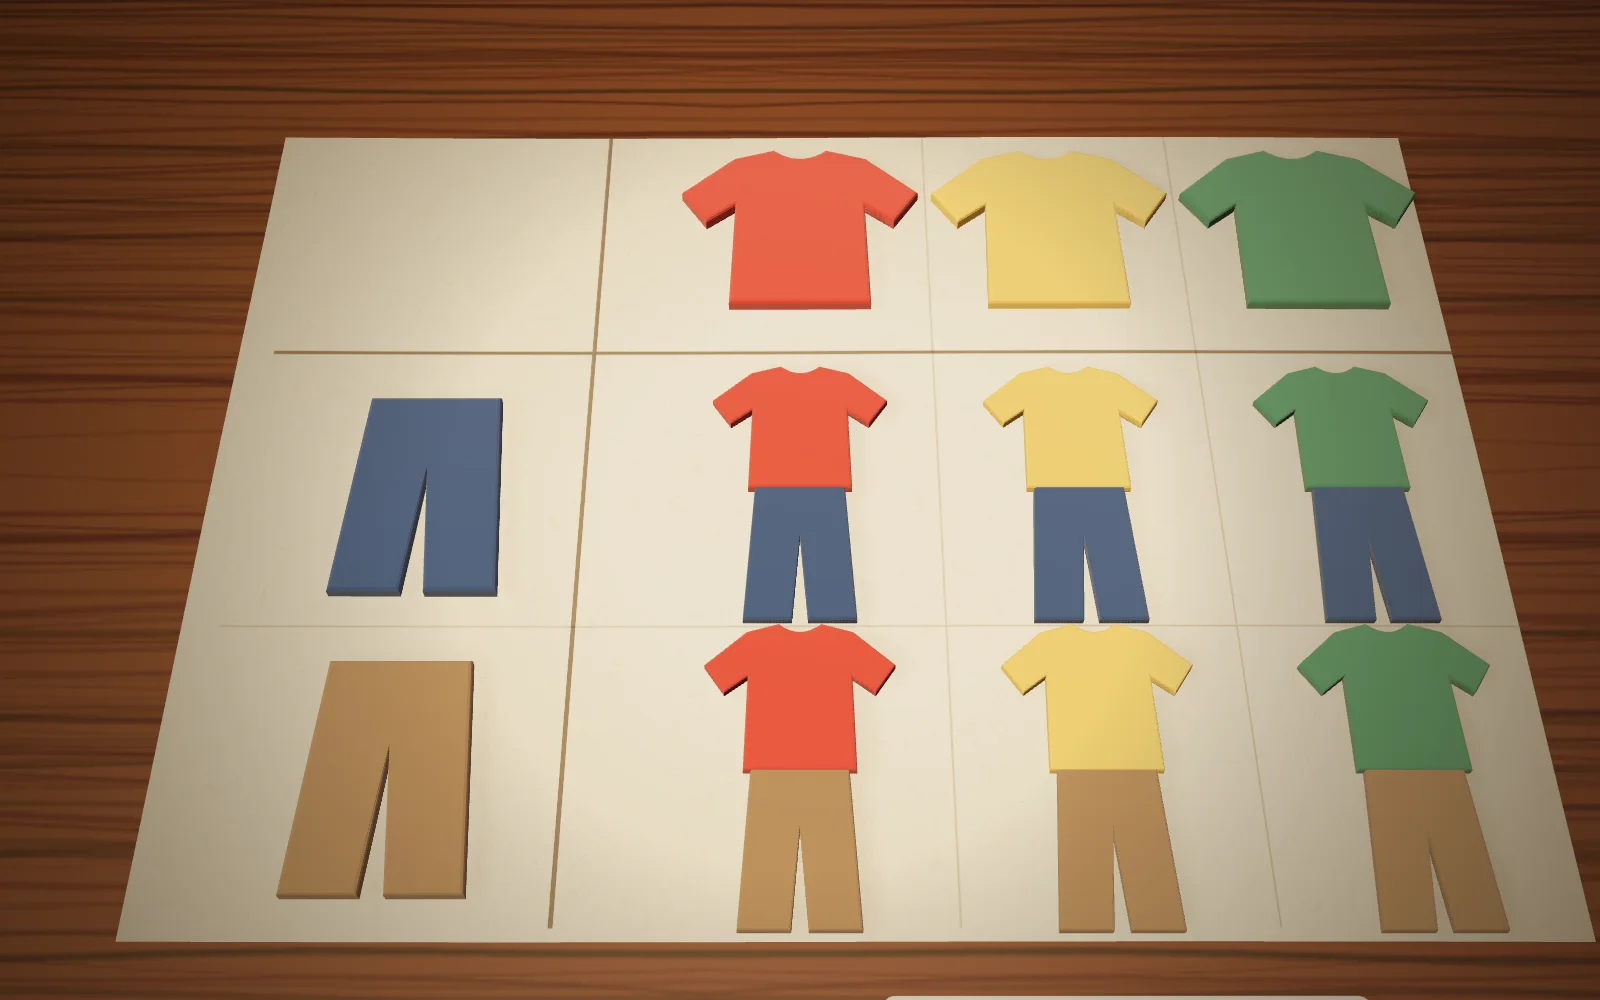
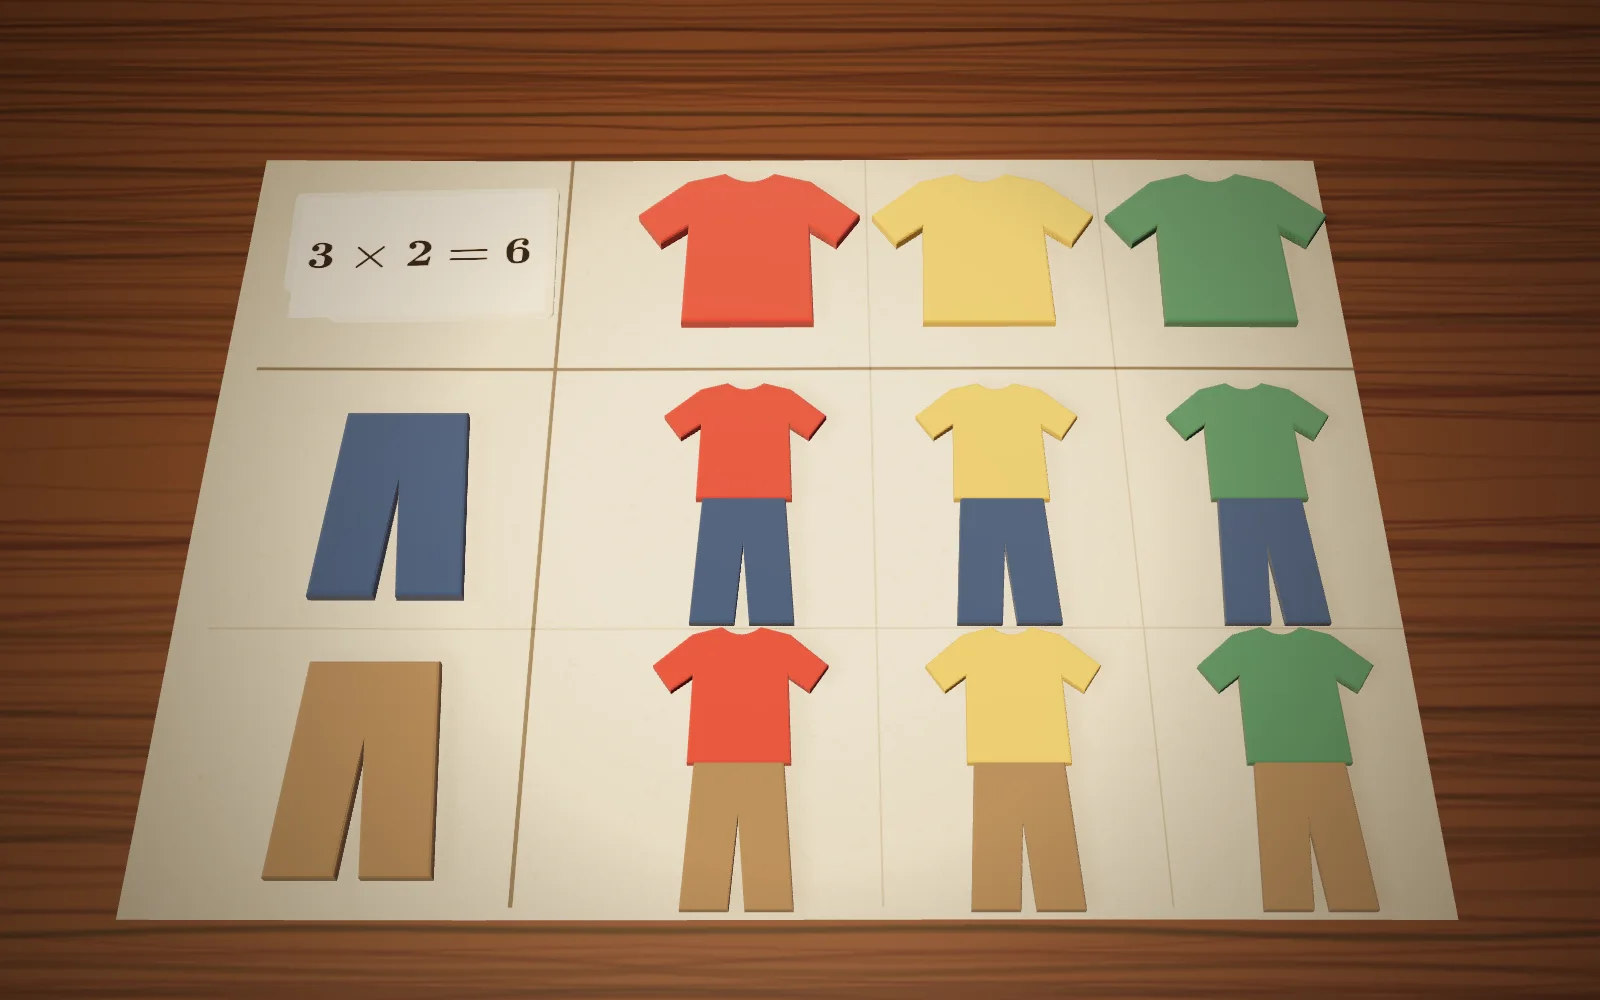
수의 마법 — 중2 C34 3D 장면 6개 등록(M-73·M-74·M-65·M-75·M-76·M-88) — 중2 15개 완료
함수(자판기에 3 → 7, f(3)=7) · 그래프(두 점을 자로 이어 직선, 셋째 점도 그 위) · 기울기(경사 8% = 8÷100) ·
두 직선의 교점(2, 1) · 활용(물통 5L 에 1분 3L → 10분 35L, y=3x+5) · 경우의 수(상의 3 × 하의 2 = 6).
에이전트 작성, 정지 그림 검수 후 alt 3개 언어 등록. check-hero3d 34개 통과.

Claude-Session: https://claude.ai/code/session_01T6HCktzZTCy63PeQAnPr61

diff --git a/number_magic/data/hero3d.js b/number_magic/data/hero3d.js
@@ -33,4 +33,11 @@ window.NM_HERO3D = {
   'M-71': { alt:{ ko:"종이에 0부터 10까지의 수직선과 800x ≤ 7000이 적혀 있고, 0부터 8.75까지 붉은 띠와 8.75의 속이 찬 점이 그려져 있으며 초록 말이 8에 서 있습니다. 뒤에는 1000이 적힌 지폐 7장, 800 카드, 공책 8권 더미와 옆에 놓인 공책 1권이 있습니다.", en:"Paper with a number line from 0 to 10 and 800x ≤ 7000 written on it; a red band runs from 0 to a filled dot at 8.75, and a green pawn stands on 8. Behind are seven notes marked 1000, a card reading 800, a stack of 8 notebooks and one more notebook lying beside it.", zh:"纸上画着0到10的数轴并写着800x ≤ 7000，从0到8.75画有红带，8.75处是实心点，绿色棋子立在8上。后面有7张印着1000的纸币、一张800的卡片、一摞8本笔记本和旁边的一本笔记本。" } },
   'M-63': { alt:{ ko:"종이 위에 윗줄은 사과 2개와 배 1개 = 1100, 아랫줄은 사과 1개와 배 1개 = 800이 놓여 있고, 왼쪽에 빼기 기호, 아래에 가로줄이 있으며 그 밑에 사과 1개 = 300이 놓여 있습니다.", en:"On a sheet of paper, the top row has 2 apples and 1 pear = 1100 and the second row has 1 apple and 1 pear = 800. A minus sign is on the left and a line is drawn underneath, below which lies 1 apple = 300.", zh:"纸上第一行是2个苹果和1个梨 = 1100，第二行是1个苹果和1个梨 = 800，左边有减号，下面画了一条横线，横线下是1个苹果 = 300。" } },
   'M-72': { alt:{ ko:"책상 위 종이에 x + y = 10과 500x + 1500y = 8000이 적혀 있고, 그 앞에 포장 사탕 7개와 초콜릿 3개가 놓여 있으며, 사탕 앞에는 500, 초콜릿 앞에는 1500 카드가 있습니다.", en:"Paper on a desk reads x + y = 10 and 500x + 1500y = 8000. In front lie 7 wrapped sweets and 3 chocolate bars, with a card reading 500 before the sweets and one reading 1500 before the chocolates.", zh:"桌上的纸上写着x + y = 10和500x + 1500y = 8000，前面放着7颗包装糖果和3块巧克力，糖果前有一张500的卡片，巧克力前有一张1500的卡片。" } },
+  /* 중2 C34 (2026-09-26, 에이전트 작성 · 검수) */
+  'M-73': { alt:{ ko:"탁자 위 붉은 자판기 앞면에 f(x) = 2x + 1 판과 동전 투입구가 있고, 꺼내는 곳에 7이 적힌 캔이 나와 있습니다. 왼쪽에는 3이 새겨진 동전, 앞에는 f(3) = 2 × 3 + 1 = 7이 적힌 종이가 놓여 있습니다.", en:"A red vending machine on a table with an f(x) = 2x + 1 panel and a coin slot on its front; a can marked 7 sits in the dispenser. A coin marked 3 lies to the left, and a paper strip in front reads f(3) = 2 × 3 + 1 = 7.", zh:"桌上一台红色自动售货机，正面有f(x) = 2x + 1的牌子和投币口，出货口放着一罐写着7的饮料。左边是刻着3的硬币，前面的纸条上写着f(3) = 2 × 3 + 1 = 7。" } },
+  'M-74': { alt:{ ko:"나무 좌표판 위에 파란 철사로 직선 y = 2x + 1이 놓여 있고, 점 (1, 3)과 (2, 5)에 붉은 압정, (3, 7)에 초록 압정이 꽂혀 있습니다. 직선 옆에 나무 자가 나란히 놓이고, 판 옆 카드에 y = 2x + 1이 적혀 있습니다.", en:"A wooden coordinate board with the line y = 2x + 1 laid in blue wire; red pins mark (1, 3) and (2, 5), a green pin marks (3, 7). A wooden ruler lies alongside the line, and a card beside the board reads y = 2x + 1.", zh:"木制坐标板上用蓝色金属丝摆出直线y = 2x + 1，点(1, 3)和(2, 5)插着红色图钉，(3, 7)插着绿色图钉。直线旁平放着一把木尺，板旁卡片写着y = 2x + 1。" } },
+  'M-65': { alt:{ ko:"탁자 위에 완만하게 올라가는 아스팔트 도로 모형과 8%가 적힌 삼각형 경사 표지판이 있습니다. 밑변에는 황동 막대와 100 카드, 높은 쪽 끝에는 높이를 재는 구리 막대와 8 카드가 있고, 앞에 8 ÷ 100 = 0.08 카드가 놓여 있습니다.", en:"A model asphalt road rising gently on a table, with a triangular slope sign reading 8%. A brass rod and a card reading 100 run along the base; a copper rod marks the height at the high end beside a card reading 8, and a card in front reads 8 ÷ 100 = 0.08.", zh:"桌上有一段缓缓上升的柏油路模型和写着8%的三角形坡度标志。底边有黄铜杆和写着100的卡片，高的一端有量高度的铜杆和写着8的卡片，前面的卡片写着8 ÷ 100 = 0.08。" } },
+  'M-75': { alt:{ ko:"나무 좌표판 위에 파란 철사 직선과 구리 철사 직선이 엇갈려 있고, 두 직선이 만나는 (2, 1)에 금빛 고리와 구슬 두 개가 있습니다. 판 양옆 카드에 y = −x + 3과 y = 2x − 3이 적혀 있습니다.", en:"Two wires, one blue and one copper, cross on a wooden coordinate board; a gold ring and two beads sit where they meet at (2, 1). Cards on either side read y = −x + 3 and y = 2x − 3.", zh:"木制坐标板上一根蓝色和一根铜色金属丝交叉，交点(2, 1)处有一个金色圆环和两颗珠子。板两侧的卡片写着y = −x + 3和y = 2x − 3。" } },
+  'M-76': { alt:{ ko:"수도꼭지 아래 유리 물통에 물이 35 눈금까지 차 있고 옆에 0~35 눈금자가 서 있습니다. 옆 그래프판에는 (0, 5)의 붉은 압정에서 (10, 35)의 구슬까지 파란 철사 직선이 놓여 있고, 카드에 y = 3x + 5가 적혀 있습니다.", en:"A glass tank under a tap is filled with water up to the 35 mark, with a 0–35 scale standing beside it. On a graph board next to it, a blue wire runs from a red pin at (0, 5) to a bead at (10, 35), and a card reads y = 3x + 5.", zh:"水龙头下的玻璃水桶装水到35刻度，旁边立着0~35的刻度尺。旁边的坐标板上，蓝色金属丝从(0, 5)的红色图钉延伸到(10, 35)的珠子，卡片上写着y = 3x + 5。" } },
+  'M-88': { alt:{ ko:"칸을 나눈 종이 위 맨 윗줄에 빨강·노랑·초록 상의 3벌, 왼쪽 줄에 파랑·갈색 바지 2벌이 있고, 가운데 여섯 칸에 상의와 바지를 하나씩 짝지은 옷 6벌이 놓여 있습니다. 왼쪽 위 칸의 카드에 3 × 2 = 6이 적혀 있습니다.", en:"On a paper divided into a grid, three tops (red, yellow, green) run along the top row and two pairs of trousers (blue, brown) down the left column; the six cells in between each hold one top paired with one pair of trousers. A card in the top-left cell reads 3 × 2 = 6.", zh:"一张画成格子的纸上，最上面一行是红、黄、绿3件上衣，左边一列是蓝、棕2条裤子，中间六格各放着一件上衣配一条裤子的搭配。左上角格子的卡片写着3 × 2 = 6。" } },
 };

diff --git a/number_magic/app/hero3d/scenes-c34.js b/number_magic/app/hero3d/scenes-c34.js
@@ -100,7 +100,7 @@ export const SCENES_C34 = {
     add(k.rbox(BW, BH, BD, 0.07), k.lacquer('#8e1c16'), MX, 0, MZ);
     add(k.rbox(BW + 0.06, 0.08, BD + 0.06, 0.04), k.metal('#b8b3a8', 0.3), MX, BH, MZ);
     /* 앞면: 식 판(빛나는), 동전 투입구, 꺼내는 곳 */
-    const lab = plate(k, 'f(x) = 2x + 1', 1.34, 0.46, { glow:true, fill:0.6 }); lab.position.set(MX, 1.68, FZ + 0.012); scene.add(lab);
+    const lab = plate(k, 'f(x) = 2x + 1', 1.34, 0.46, { glow:true, fill:0.6 }); lab.position.set(MX, 1.68, FZ + 0.02); scene.add(lab);
     const frameM = k.metal('#c9c3b5', 0.28);
     add(new THREE.BoxGeometry(1.42, 0.54, 0.02), frameM, MX, 1.68, FZ + 0.002);
     const SX = MX + 0.5, SY = 1.05;
@@ -160,8 +160,10 @@ export const SCENES_C34 = {
     /* 자 — 직선 옆에 나란히 */
     const dir = new THREE.Vector3().subVectors(Z, A), len = dir.length(); dir.normalize();
     const nrm = new THREE.Vector3(-dir.z, 0, dir.x);   /* 판 위에서 직선에 수직 */
-    const ruler = new THREE.Mesh(k.rbox(len + 0.3, 0.035, 0.22, 0.02), k.woodMat('#e3c48d', [150, 110, 60]));
-    const rc = A.clone().add(Z).multiplyScalar(0.5).add(nrm.clone().multiplyScalar(-0.2)); ruler.position.set(rc.x, 0.085, rc.z);
+    /* 자는 직선 윗부분 옆에만(눈금 숫자를 가리지 않게) */
+    const RA = B.P(0.7, f(0.7)), rl = RA.distanceTo(Z);
+    const ruler = new THREE.Mesh(k.rbox(rl + 0.2, 0.035, 0.22, 0.02), k.woodMat('#e3c48d', [150, 110, 60]));
+    const rc = RA.clone().add(Z).multiplyScalar(0.5).add(nrm.clone().multiplyScalar(0.2)); ruler.position.set(rc.x, 0.085, rc.z);
     ruler.rotation.y = -Math.atan2(dir.z, dir.x); ruler.castShadow = ruler.receiveShadow = true; scene.add(ruler);
     /* 두 점(붉은 압정)과 확인하는 세 번째 점(초록 압정) */
     const p1 = pin(k, B.P(1, 3), '#b3221a'), p2 = pin(k, B.P(2, 5), '#b3221a'), p3 = pin(k, B.P(3, 7), '#2f7a4a');
@@ -187,7 +189,7 @@ export const SCENES_C34 = {
   ]},
     build(k){
     const { THREE, scene } = k;
-    k.frame([0.15, 0.3, 0.55], 6.3, 24);
+    k.frame([0.15, 0.3, 0.5], 6.3, 28);
     k.table();
     const L = 5.2, R = L * 0.08, X0 = -2.5, DZ = 1.1, Z0 = -0.2;   /* 가로 100 → L, 세로 8 → R */
     /* 흙 쐐기 + 아스팔트 길 */
@@ -259,7 +261,6 @@ export const SCENES_C34 = {
     put(b1, l1, u1X, -0.06); put(b2, l2, u2X, 0.06);
     k.onFrame(t => { const p = cyc(t, 8); const away = seg(p, 0.06, 0.34) * (1 - seg(p, 0.44, 0.74)), close = 1 - seg(p, 0.66, 0.74);
       put(b1, l1, u1X + (u1F - u1X) * away, -0.06 * close); put(b2, l2, u2X + (u2F - u2X) * away, 0.06 * close);
-      if(p > 0.74) { b1.position.x = b1.position.x; }
       ring.position.y = 0.1 + 0.22 * hop(p, 0.76, 0.9); });
     k.lights({ envOpts:{ intensity:0.7 } });
   }},
@@ -279,7 +280,7 @@ export const SCENES_C34 = {
     const A = B.P(0, 5), Z = B.P(10, 35);
     wire(k, A, Z, k.metal('#3f6fa0', 0.3));
     pin(k, A, '#b3221a');
-    fitCard(k, 'y = 3x + 5', -1.2, 1.75, { w:1.5, d:0.48 });
+    fitCard(k, 'y = 3x + 5', -1.75, 1.85, { w:1.5, d:0.48 });
     const bd = bead(k, '#fff3d6', 0.075);
     /* 물통: 유리 원통 + 물 + 눈금자(0~35) + 수도꼭지 */
     const TX = -2.1, TZ = -0.1, TR = 0.52, TH = 2.1, LPU = 0.052;   /* 1L 당 높이 */
@@ -323,7 +324,7 @@ export const SCENES_C34 = {
   ]},
     build(k){
     const { THREE, scene } = k;
-    k.frame([0.6, 0.05, 0.45], 7.0, 60);
+    k.frame([0.6, 0.05, 0.2], 6.4, 60);
     k.table();
     const fabric = c => new THREE.MeshPhysicalMaterial({ color:c, roughness:0.92, sheen:1, sheenRoughness:0.6, sheenColor:new THREE.Color('#ffffff').multiplyScalar(0.25) });
     const flat = (shape, mat, s) => { const geo = new THREE.ExtrudeGeometry(shape, { depth:0.035, bevelEnabled:true, bevelThickness:0.012, bevelSize:0.012, bevelSegments:2, curveSegments:10 });
@@ -351,7 +352,7 @@ export const SCENES_C34 = {
     cx.forEach((x, i) => rz.forEach((z, j) => { const g = new THREE.Group();
       const a = flat(shirt, tops[i], 0.85); a.position.set(0, 0.035, -0.28); const b = flat(pants, bots[j], 0.8); b.position.set(0, 0.03, 0.3);
       g.add(a, b); g.position.set(x, 0.03, z); scene.add(g); cells.push({ g, i, j }); }));
-    const sum = fitCard(k, '3 × 2 = 6', 1.5, 2.6, { w:1.7, d:0.52 });
+    const sum = fitCard(k, '3 × 2 = 6', -1.25, -1.2, { w:1.3, d:0.8, hmax:0.75, fill:0.9, rot:0.03 });
     /* 움직임: 상의 하나마다 하의 둘 — 여섯 벌이 차례로 톡, 그때마다 그 벌의 상의·하의도 함께 → 마지막에 3 × 2 = 6 */
     const y0 = { t:hdrTop.map(m => m.position.y), b:hdrBot.map(m => m.position.y), c:cells.map(c => c.g.position.y), s:sum.position.y };
     k.onFrame(t => { const p = cyc(t, 9); const ht = [0, 0, 0], hb = [0, 0];
